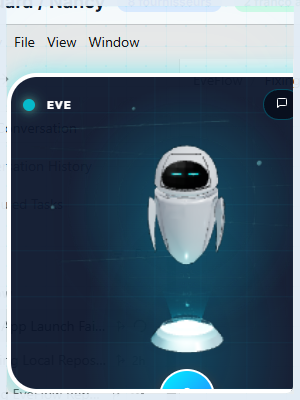
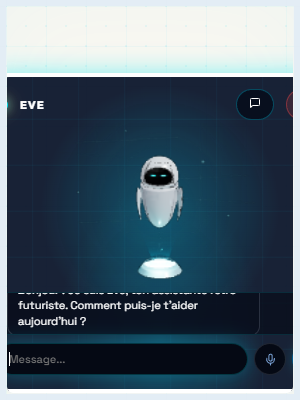
style(widget): restructure compact widget vertical layout and update genuine screenshots in README.md

diff --git a/src/App.tsx b/src/App.tsx
@@ -1064,6 +1064,7 @@ export const App: React.FC = () => {
   // Références de services
   const audioServiceRef = useRef<AudioService | null>(null);
   const messagesEndRef = useRef<HTMLDivElement>(null);
+  const compactMessagesEndRef = useRef<HTMLDivElement>(null);
   const pollingServiceRef = useRef<PollingService | null>(null);
 
   // AppCallbacks for tools
@@ -1223,7 +1224,8 @@ export const App: React.FC = () => {
   // Défilement automatique
   useEffect(() => {
     messagesEndRef.current?.scrollIntoView({ behavior: 'smooth' });
-  }, [messages, showSettings]);
+    compactMessagesEndRef.current?.scrollIntoView({ behavior: 'smooth' });
+  }, [messages, showSettings, isFloatingMode]);
 
 
 
@@ -2233,7 +2235,7 @@ export const App: React.FC = () => {
           )}
 
           {/* Rendu Canvas 3D */}
-          <div style={{ flex: 1, width: '100%', position: 'relative', display: 'flex', alignItems: 'center', justifyContent: 'center' }}>
+          <div style={{ flex: isFloatingMode ? 'none' : 1, height: isFloatingMode ? '165px' : 'auto', width: '100%', position: 'relative', display: 'flex', alignItems: 'center', justifyContent: 'center', marginTop: isFloatingMode ? '34px' : '0' }}>
             <ThreeCanvas
               emotion={currentEmotion}
               isSpeaking={isSpeaking}
@@ -2255,30 +2257,76 @@ export const App: React.FC = () => {
             )}
           </div>
 
-          {/* Contrôle micro en mode Widget */}
+          {/* Chat compact en bas en mode Widget */}
           {isFloatingMode && (
-            <div style={{ width: '100%', display: 'flex', flexDirection: 'column', alignItems: 'center', gap: '10px', paddingBottom: '12px' }}>
-              <button
-                onClick={isListening ? handleStopListening : handleStartVocalRecord}
-                className="neon-btn"
-                style={{ 
-                  borderRadius: '50%', 
-                  padding: '16px',
-                  width: '56px',
-                  height: '56px',
-                  display: 'flex',
-                  alignItems: 'center',
-                  justifyContent: 'center',
-                  background: isListening ? 'linear-gradient(135deg, #ef4444, #b91c1c)' : 'linear-gradient(135deg, var(--accent-cyan), var(--accent-blue))',
-                  boxShadow: isListening ? '0 0 20px rgba(239, 68, 68, 0.4)' : '0 4px 12px rgba(255, 85, 0, 0.25)',
-                  border: '2px solid var(--text-primary)'
-                }}
-                title={isListening ? "Arrêter l'écoute" : `Parler à ${activeAvatar.name}`}
-              >
-                {isListening ? <MicOff style={{ width: '22px', height: '22px' }} /> : <Mic style={{ width: '22px', height: '22px' }} />}
-              </button>
-              <div style={{ fontSize: '9px', fontWeight: '800', textTransform: 'uppercase', color: 'var(--text-secondary)', letterSpacing: '1.5px', padding: '4px 14px', borderRadius: '15px', backgroundColor: 'var(--bg-secondary)', border: '2px solid var(--text-primary)', fontFamily: 'var(--font-title)' }}>
-                {isListening ? "À l'écoute..." : "Prête à t'écouter"}
+            <div className="compact-chat-container" style={{ display: 'flex', flexDirection: 'column', flex: 1, width: '100%', minHeight: 0, gap: '8px', marginTop: '4px' }}>
+              {/* Petite zone de messages défilable */}
+              <div className="compact-messages-list" style={{ flex: 1, overflowY: 'auto', padding: '6px 10px', display: 'flex', flexDirection: 'column', gap: '8px', fontSize: '11px', lineHeight: '1.4', border: '1px solid rgba(0, 242, 255, 0.12)', borderRadius: '8px', backgroundColor: 'rgba(5, 9, 20, 0.65)', minHeight: 0 }}>
+                {messages.slice(-5).map((msg) => {
+                  const isUser = msg.role === 'user';
+                  return (
+                    <div key={msg.id} style={{ display: 'flex', flexDirection: 'column', alignSelf: isUser ? 'flex-end' : 'flex-start', maxWidth: '85%' }}>
+                      <div style={{
+                        padding: '6px 10px',
+                        borderRadius: '10px',
+                        border: isUser ? '1px solid rgba(0, 212, 245, 0.35)' : '1px solid rgba(226, 240, 255, 0.15)',
+                        backgroundColor: isUser ? 'rgba(0, 212, 245, 0.12)' : 'rgba(10, 15, 30, 0.75)',
+                        color: isUser ? 'var(--accent-cyan)' : 'var(--text-primary)',
+                        wordBreak: 'break-word',
+                        boxShadow: isUser ? '0 0 10px rgba(0, 212, 245, 0.05)' : 'none'
+                      }}>
+                        {msg.content}
+                      </div>
+                    </div>
+                  );
+                })}
+                <div ref={compactMessagesEndRef} />
+              </div>
+
+              {/* Barre de saisie compacte */}
+              <div style={{ display: 'flex', gap: '6px', alignItems: 'center', width: '100%', paddingBottom: '2px' }}>
+                <input
+                  type="text"
+                  value={inputText}
+                  onChange={(e) => setInputText(e.target.value)}
+                  onKeyDown={(e) => e.key === 'Enter' && handleSendMessage(inputText)}
+                  placeholder="Message..."
+                  className="glow-input"
+                  disabled={isSending}
+                  style={{ flex: 1, fontSize: '11px', padding: '6px 12px', height: '32px', borderRadius: '16px', border: '1px solid rgba(0, 242, 255, 0.2)', backgroundColor: '#050914', color: 'var(--text-primary)' }}
+                />
+                
+                <button
+                  onClick={isListening ? handleStopListening : handleStartVocalRecord}
+                  className="input-circle-btn"
+                  style={{
+                    width: '32px',
+                    height: '32px',
+                    minWidth: '32px',
+                    borderRadius: '50%',
+                    border: '1px solid',
+                    borderColor: isListening ? '#ef4444' : 'rgba(226, 240, 255, 0.12)',
+                    backgroundColor: isListening ? 'rgba(239, 68, 68, 0.15)' : '#050914',
+                    padding: 0,
+                    display: 'flex',
+                    alignItems: 'center',
+                    justifyContent: 'center',
+                    cursor: 'pointer'
+                  }}
+                  title={isListening ? "Arrêter l'écoute" : "Saisie vocale"}
+                >
+                  {isListening ? <MicOff style={{ width: '13px', height: '13px', color: '#ef4444' }} /> : <Mic style={{ width: '13px', height: '13px', color: 'var(--text-secondary)' }} />}
+                </button>
+
+                <button
+                  onClick={() => handleSendMessage(inputText)}
+                  disabled={(!inputText.trim() && attachments.length === 0) || isSending}
+                  className="input-send-btn"
+                  style={{ width: '32px', height: '32px', minWidth: '32px', borderRadius: '50%', padding: 0, display: 'flex', alignItems: 'center', justifyContent: 'center', border: 'none', backgroundColor: 'var(--accent-cyan)', color: '#000', cursor: 'pointer' }}
+                  title="Envoyer"
+                >
+                  <Send style={{ width: '11px', height: '11px' }} />
+                </button>
               </div>
             </div>
           )}

diff --git a/src/index.css b/src/index.css
@@ -293,11 +293,13 @@ body {
 .eve-section.floating-widget {
   width: 100%;
   height: 100%;
-  padding: 20px;
+  padding: 12px;
   background-color: var(--bg-glass-active);
   border: 4px solid var(--text-primary);
   border-radius: var(--radius-lg);
   box-shadow: var(--glow-cyan-active), 0 10px 25px rgba(255, 85, 0, 0.1);
+  justify-content: flex-start;
+  align-items: stretch;
 }
 
 .avatar-ambient-field {
